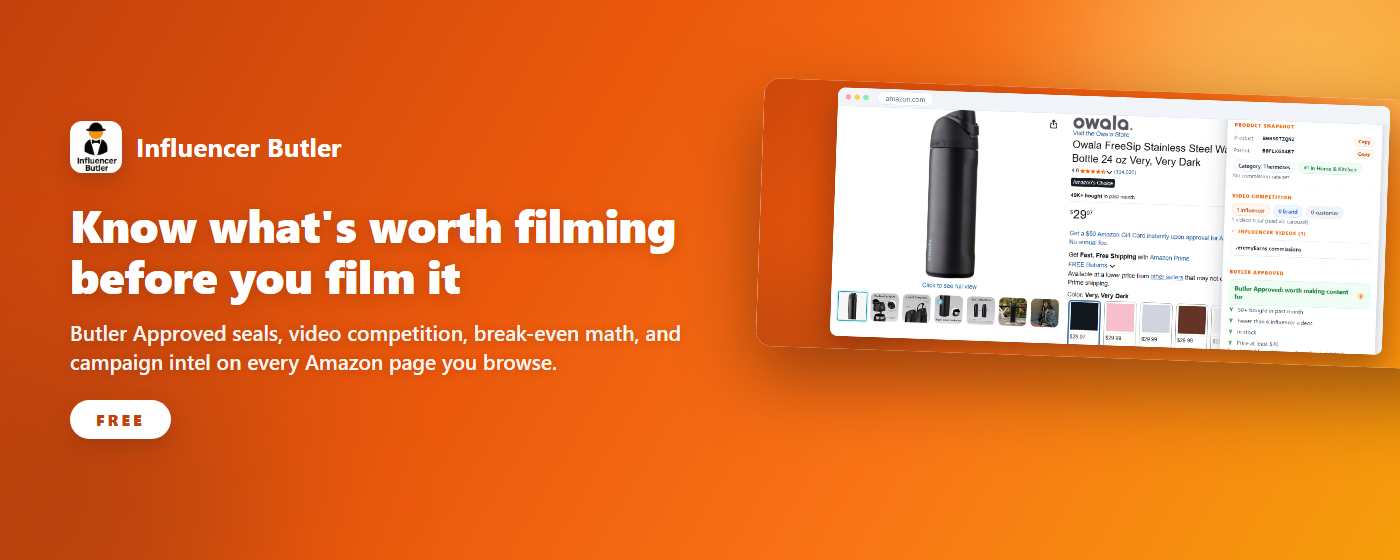
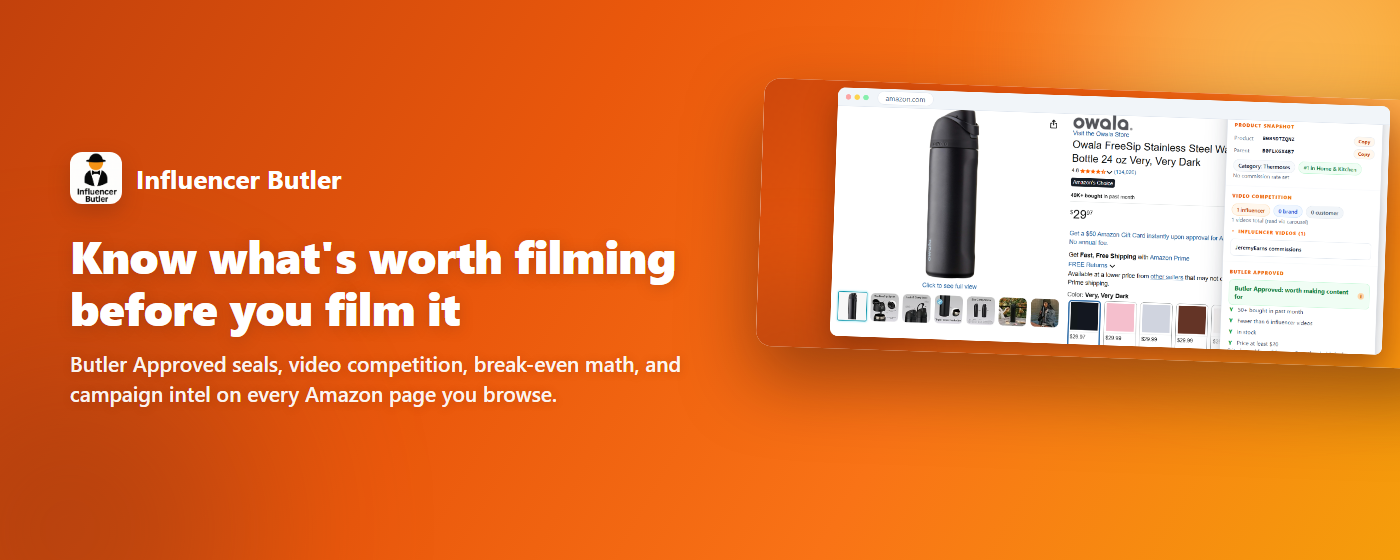
fix(extension): strip FREE badges from all Web Store listing images
Google rejected the 2026-08-17 submission (ref Red Nickel): listing images
must not carry badge text like free, #1, recommended. Removes the
FREE pill from the screenshot frame and both promo tile templates,
re-renders all seven images, crops the popup screenshot below its own FREE
plan pill, and records the post-mortem in docs/chrome-web-store-listing.md.

Changed region(s): [[0.0307, 0.2125, 0.4914, 0.6679], [0.0307, 0.6982, 0.3993, 0.7893]]

diff --git a/scripts/assets/store-promo-marquee.html b/scripts/assets/store-promo-marquee.html
@@ -30,12 +30,8 @@
     margin-top: 16px; color: rgba(255,255,255,.95); font-size: 21px; font-weight: 500; line-height: 1.4;
     text-shadow: 0 1px 8px rgba(124,45,18,.3);
   }
-  .pill {
-    margin-top: 24px; align-self: flex-start;
-    background: #fff; color: #c2410c; font-weight: 800; font-size: 16px;
-    letter-spacing: .18em; padding: 9px 26px; border-radius: 999px;
-    box-shadow: 0 8px 20px rgba(124,45,18,.35);
-  }
+  /* NOTE: no FREE/NEW/#1-style badge. Flagged by the 2026-08-19 rejection
+     (Red Nickel): badge keywords are banned in listing images. */
   .shotcard {
     position: absolute; right: -60px; top: 90px; width: 700px; height: 268px;
     background: #fff; border-radius: 16px; overflow: hidden;
@@ -52,7 +48,6 @@
     <div class="brand"><img src="../../public/assets/influencer-butler-logo.png" alt=""><span>Influencer Butler</span></div>
     <h1>Know what's worth filming before you film it</h1>
     <div class="sub">Butler Approved seals, video competition, break-even math, and campaign intel on every Amazon page you browse.</div>
-    <div class="pill">FREE</div>
   </div>
   <div class="shotcard"><img src="../../public/assets/extension/extension_shot_1_product_page_1280x800.png" alt=""></div>
 </body>

diff --git a/scripts/assets/store-shot-frame.html b/scripts/assets/store-shot-frame.html
@@ -23,12 +23,9 @@
     color: #fff; font-weight: 700; font-size: 20px; letter-spacing: .01em;
   }
   .brand img { width: 34px; height: 34px; border-radius: 8px; }
-  .free-pill {
-    position: absolute; top: 32px; right: 40px;
-    background: rgba(255,255,255,.16); border: 1.5px solid rgba(255,255,255,.75);
-    color: #fff; font-weight: 700; font-size: 15px; letter-spacing: .16em;
-    padding: 6px 16px; border-radius: 999px;
-  }
+  /* NOTE: no FREE/NEW/#1-style badge here. The 2026-08-19 rejection (Red
+     Nickel) flagged badge keywords in listing images; see
+     docs/chrome-web-store-listing.md. */
   .headline {
     position: absolute; top: 84px; left: 0; right: 0;
     text-align: center; color: #fff; font-size: 43px; font-weight: 800;
@@ -75,7 +72,6 @@
   <div class="blob blob1"></div>
   <div class="blob blob2"></div>
   <div class="brand"><img src="{{LOGO}}" alt=""> Influencer Butler</div>
-  <div class="free-pill">FREE</div>
   <div class="headline">{{HEADLINE}}</div>
   <div class="stage">
     <div class="card">

diff --git a/scripts/assets/store-promo-small.html b/scripts/assets/store-promo-small.html
@@ -26,12 +26,8 @@
     margin-top: 6px; color: rgba(255,255,255,.95); font-size: 15.5px; font-weight: 600;
     text-shadow: 0 1px 6px rgba(124,45,18,.35); position: relative; padding: 0 30px; line-height: 1.3;
   }
-  .pill {
-    margin-top: 14px; position: relative;
-    background: #fff; color: #c2410c; font-weight: 800; font-size: 13px;
-    letter-spacing: .18em; padding: 6px 18px; border-radius: 999px;
-    box-shadow: 0 6px 16px rgba(124,45,18,.35);
-  }
+  /* NOTE: no FREE/NEW/#1-style badge. Flagged by the 2026-08-19 rejection
+     (Red Nickel): badge keywords are banned in listing images. */
 </style>
 </head>
 <body>
@@ -40,6 +36,5 @@
   <img class="logo" src="../../public/assets/influencer-butler-logo.png" alt="">
   <h1>Influencer Butler</h1>
   <div class="tag">Amazon influencer research tools, right on the page</div>
-  <div class="pill">FREE</div>
 </body>
 </html>

diff --git a/docs/chrome-web-store-listing.md b/docs/chrome-web-store-listing.md
@@ -27,6 +27,20 @@ behavior; reviewers compare the two.
 > providers are still surfaced where they belong, in the extension's own
 > Settings UI. Nothing else in the copy changed.
 
+> **2026-08-19 resubmission note (image badge rejection, ref "Red Nickel").**
+> The 2026-08-17 submission (0.1.7 + listing refresh) was rejected under
+> "Ensuring Responsible Marketing and Monetization - Impersonation and
+> Intellectual Property" for the marquee and small promo tile images: both
+> carried a "FREE" pill, and listing images must not use badge or text with
+> keywords such as "recommended", "premium", "free", "#1", "new". Fix: the
+> FREE pill was removed from every image template
+> (scripts/assets/store-shot-frame.html, store-promo-small.html,
+> store-promo-marquee.html) and all seven images were re-rendered; the popup
+> screenshot's crop was also shifted to hide the popup UI's own FREE plan
+> pill. Saying "free" in the text description is fine (the approved copy
+> does); it is IMAGES that must stay badge-free. Do not reintroduce
+> promotional badges into listing images.
+
 For shipping new **code** (as opposed to editing this listing copy), see
 [chrome-web-store-publishing.md](chrome-web-store-publishing.md): the release is
 automated as `npm run bump` + `npm run release`.
